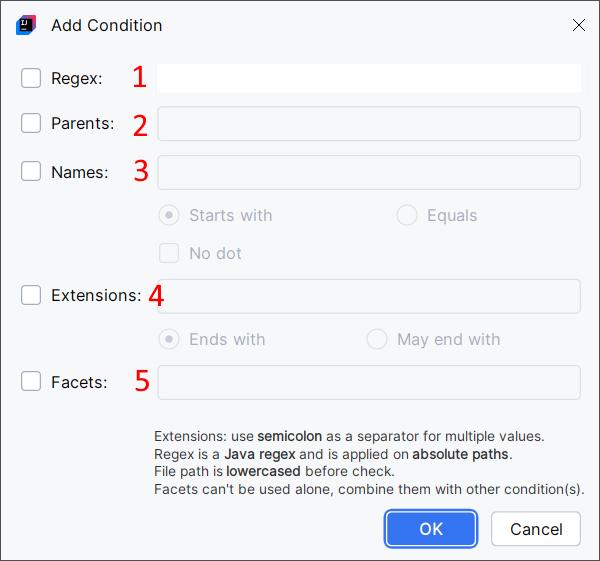
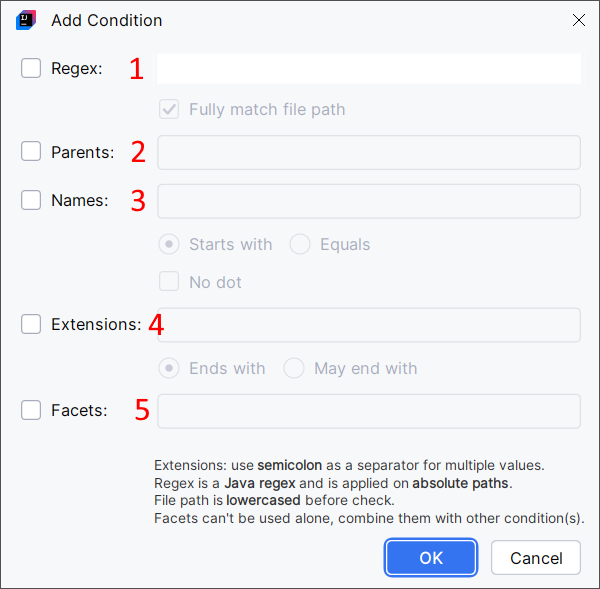
extra-tools-pack 2025.1.7

diff --git a/manual/topics/extra-icons/Extra-Icons-User-Icons.md b/manual/topics/extra-icons/Extra-Icons-User-Icons.md
@@ -103,13 +103,13 @@ When defining a model for a [File](#file-icons) or a [Directory](#directory-icon
 
 When defining multiple conditions in the table, the icon override will apply if at least one condition is matched.
 
-Inside a condition (i.e., in the `Add Condition dialog`), you will define one or many rules.
+Inside a condition (i.e., in the `Add Condition` dialog), you will define one or many rules.
 When defining multiple rules, the condition will apply if all the rules are verified.
 
 ![](../../images/extra-icons/extra-icons-model-condition.png){ width="450" }
 
-1. The file or folder path verifies the given regular expression.
-2. The file or folder has the given folder name as parent.
+1. The file or folder path verifies the given regular expression. You can also indicate if the regular expression should match the entire file path, or if it can simply match a part of the file path.
+2. The file or folder has the given folder name as its parent.
 3. The file or folder name starts with or is equal to the given string. You can also indicate the file or folder path shouldn't contain a "." character.
 4. The filename ends with the given string. This rule can be made optional (enable `May end with` instead of `End with`).
 5. The project or the module has the given facets. You can find the active facets in the Project Structure menu of the IDE.

diff --git a/manual/topics/Supported-IDEs.md b/manual/topics/Supported-IDEs.md
@@ -16,14 +16,10 @@ Most JetBrains IDEs are supported:
 - RubyMine
 - RustRover
 - WebStorm
-- Writerside
 
 {columns="2"}
 
-These IDEs are currently supported for versions from 2023.3.1 to their latest stable version.
-Basically, I'm trying to support at least the two last major IDE versions (reminder: IDE versions look like `Year.Major.Minor`).
-
-Android Studio is also officially supported from Koala | 2024.1.1, and it should also work with Jellyfish | 2023.3.1 (not tested).
+These IDEs are currently supported for versions from 2024.3 to their latest stable version.  
 
 > Older versions of Extra Tools Pack, Extra Icons, Extra ToolWindow Colorful Icons and Extra IDE Tweaks are compatible with IDEs from 2020.3, but they're no longer supported.
 
